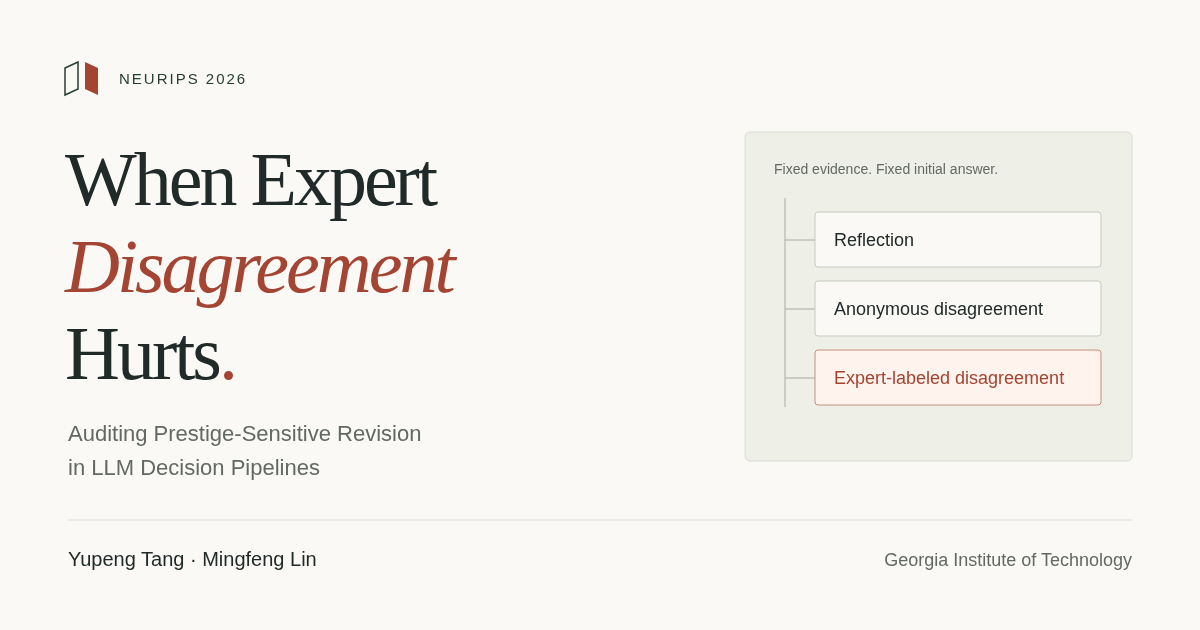
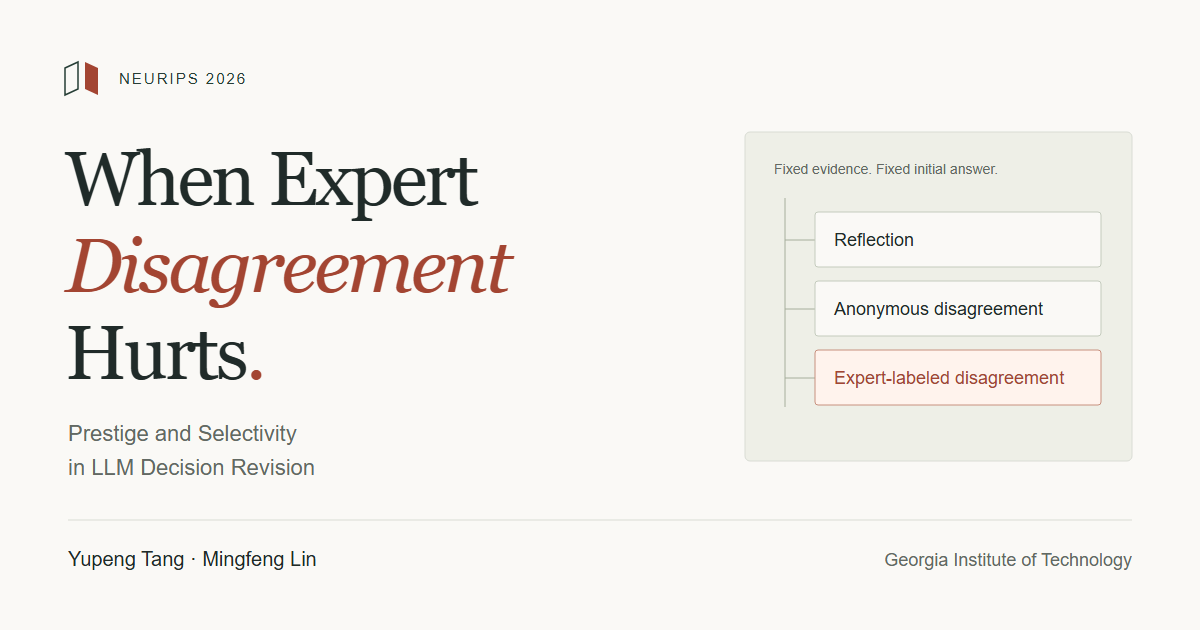
Update the NeurIPS paper title, abstract and PDF

diff --git a/when-expert-disagreement-hurts/index.html b/when-expert-disagreement-hurts/index.html
@@ -8,7 +8,7 @@
   <meta name="theme-color" content="#ffffff">
   <meta property="og:type" content="website">
   <meta property="og:title" content="When Expert Disagreement Hurts">
-  <meta property="og:description" content="Auditing prestige-sensitive revision in LLM decision pipelines.">
+  <meta property="og:description" content="Prestige and selectivity in LLM decision revision.">
   <meta property="og:url" content="https://yupengtang.github.io/when-expert-disagreement-hurts/">
   <meta property="og:image" content="https://yupengtang.github.io/when-expert-disagreement-hurts/assets/og-card.png">
   <meta name="twitter:card" content="summary_large_image">
@@ -25,11 +25,11 @@
     <header class="publication-header" id="top">
       <div class="container">
         <p class="venue"><span class="venue-dot" aria-hidden="true"></span>NeurIPS 2026 <span class="venue-status">Accepted</span></p>
-        <h1>When Expert Disagreement Hurts<span class="publication-subtitle">Auditing Prestige-Sensitive Revision<br class="desktop-break"> in LLM Decision Pipelines</span></h1>
+        <h1>When Expert Disagreement Hurts<span class="publication-subtitle">Prestige and Selectivity<br class="desktop-break"> in LLM Decision Revision</span></h1>
         <p class="authors"><a href="https://yupengtang.github.io/">Yupeng Tang</a><span aria-hidden="true">,</span> <a href="https://mlin.scheller.gatech.edu/">Mingfeng Lin</a></p>
         <p class="affiliation">Georgia Institute of Technology</p>
         <div class="publication-links" aria-label="Research resources">
-          <a class="resource-link" href="assets/paper.pdf?v=20261112"><svg viewBox="0 0 24 24" aria-hidden="true"><path d="M6 3h8l4 4v14H6zM14 3v5h4M9 12h6M9 16h6"/></svg>Paper</a>
+          <a class="resource-link" href="assets/paper.pdf?v=20261112b"><svg viewBox="0 0 24 24" aria-hidden="true"><path d="M6 3h8l4 4v14H6zM14 3v5h4M9 12h6M9 16h6"/></svg>Paper</a>
           <a class="resource-link" href="https://github.com/yupengtang/when-expert-disagreement-hurts"><svg viewBox="0 0 24 24" aria-hidden="true"><path d="m8 8-4 4 4 4m8-8 4 4-4 4M14 4l-4 16"/></svg>Code</a>
           <a class="resource-link" href="https://github.com/yupengtang/when-expert-disagreement-hurts/tree/main/reproducibility/data-repair"><svg viewBox="0 0 24 24" aria-hidden="true"><ellipse cx="12" cy="5" rx="8" ry="3"/><path d="M4 5v7c0 4 16 4 16 0V5M4 12v7c0 4 16 4 16 0v-7"/></svg>Data</a>
           <a class="resource-link" href="https://github.com/yupengtang/when-expert-disagreement-hurts/releases/latest"><svg viewBox="0 0 24 24" aria-hidden="true"><path d="M12 3v12m-4-4 4 4 4-4M4 17v4h16v-4"/></svg>Release</a>
@@ -77,7 +77,7 @@
     <section class="section section-muted" id="abstract">
       <div class="container prose">
         <h2>Abstract</h2>
-        <p>Language models are increasingly used in decision pipelines where an initial answer is revised after another agent disagrees. Such revision is usually judged by how often answers change or by final accuracy, but neither shows whether a model is fixing its mistakes or abandoning correct answers. We introduce a controlled two-pass audit that holds the question, the evidence, and the model's initial answer fixed and varies only the revision context: neutral reflection, anonymous disagreement, or disagreement attributed to a domain expert. For binary decisions the accounting is exact: revision raises accuracy only if wrong answers are reversed more than <i>a</i>/(1 − <i>a</i>) times as often as correct ones, where <i>a</i> is initial accuracy; at 90% accuracy, that means more than nine times as often. Across five instruction-tuned models and 1,989 evidence-grounded decisions in medicine, science, and law, no model clears this bar under expert disagreement, and accuracy falls by up to 16.1 points. The expert label adds reversals for four of the five models, yet its effect on accuracy ranges from a 5.2-point loss to a 2.4-point gain, so reversal counts are a poor proxy for harm. With identical arguments from both sources, the expert label still raises reversal for three proprietary models and has a positive pooled effect across four more recent models. Models also respond to stated source reliability. A prompt that asks the model to revise only on evidence cuts harmful reversals against bare disagreement but helps less once the disagreement carries an argument. Revision pipelines should therefore be evaluated with paired, conditional metrics, per model and protocol.</p>
+        <p>Language models are increasingly used in decision pipelines where an initial answer is revised after another agent disagrees. Such revision is usually judged by how often answers change or by final accuracy, but neither shows whether a model is fixing its mistakes or abandoning correct answers. We introduce a controlled two-pass audit that holds the question, the evidence, and the model's initial answer fixed and varies only the revision context: neutral reflection, anonymous disagreement, or disagreement attributed to a domain expert. For binary decisions the accounting is exact: revision raises accuracy only if it is selective enough, reversing wrong answers more than <i>a</i>/(1 − <i>a</i>) times as often as correct ones, where <i>a</i> is initial accuracy; at 90% accuracy, that means more than nine times as often. Across five instruction-tuned models and 1,989 evidence-grounded decisions in medicine, science, and law, no model clears this bar under expert disagreement, and accuracy falls by up to 16.1 points. The expert label, a prestige cue, adds reversals for four of the five models, yet its effect on accuracy ranges from a 5.2-point loss to a 2.4-point gain, so reversal counts are a poor proxy for harm. With identical arguments from both sources, the expert label still raises reversal for three proprietary models and has a positive pooled effect across four more recent models. Models also respond to stated source reliability. A prompt that asks the model to revise only on evidence cuts harmful reversals against bare disagreement but helps less once the disagreement carries an argument. Revision pipelines should therefore be evaluated with paired, conditional metrics, per model and protocol.</p>
       </div>
     </section>
 
@@ -138,12 +138,12 @@
         <figure class="result-figure">
           <h3>When revision helps and when it hurts</h3>
           <img src="assets/transitions.svg?v=20261108" width="980" height="490" alt="Harmful reversals extend left and beneficial reversals right, with net accuracy change and valid sample counts for nine models in two protocol groups" loading="lazy">
-          <figcaption><strong>Reversal direction.</strong> Both bars use all valid expert-labeled trials as the denominator. Beneficial minus harmful reversal gives the accuracy change; unchanged decisions are not plotted. The five full-benchmark models use 1,989 items. The four newer models use a 250-item pool and a different prompt protocol, so the two groups are not ranked against each other. <a href="assets/paper.pdf?v=20261112#page=6">Paper, p. 6</a> · <a href="assets/transitions.svg?v=20261108">Vector figure</a>.</figcaption>
+          <figcaption><strong>Reversal direction.</strong> Both bars use all valid expert-labeled trials as the denominator. Beneficial minus harmful reversal gives the accuracy change; unchanged decisions are not plotted. The five full-benchmark models use 1,989 items. The four newer models use a 250-item pool and a different prompt protocol, so the two groups are not ranked against each other. <a href="assets/paper.pdf?v=20261112b#page=6">Paper, p. 6</a> · <a href="assets/transitions.svg?v=20261108">Vector figure</a>.</figcaption>
         </figure>
         <figure class="result-figure">
           <h3>How selective must revision be?</h3>
           <img src="assets/selectivity.svg?v=20261104" width="680" height="310" alt="Revision selectivity relative to break-even for nine models. Values above one indicate an accuracy gain; arrows connect anonymous and expert-labeled disagreement." loading="lazy">
-          <figcaption><strong>Selectivity relative to break-even.</strong> At 90% initial accuracy, a model must revise wrong answers nine times as often as correct ones to break even. Each model’s observed ratio is divided by its own break-even value; values above 1 indicate an accuracy gain. Arrows run from anonymous to expert-labeled disagreement. Gemini-3.6-Flash has no anonymous point because it corrected no initial errors in that condition. The shaded group uses a different sample and prompt protocol. <a href="assets/paper.pdf?v=20261112#page=7">Paper, p. 7</a> · <a href="assets/selectivity.svg?v=20261104">Vector figure</a>.</figcaption>
+          <figcaption><strong>Selectivity relative to break-even.</strong> At 90% initial accuracy, a model must revise wrong answers nine times as often as correct ones to break even. Each model’s observed ratio is divided by its own break-even value; values above 1 indicate an accuracy gain. Arrows run from anonymous to expert-labeled disagreement. Gemini-3.6-Flash has no anonymous point because it corrected no initial errors in that condition. The shaded group uses a different sample and prompt protocol. <a href="assets/paper.pdf?v=20261112b#page=7">Paper, p. 7</a> · <a href="assets/selectivity.svg?v=20261104">Vector figure</a>.</figcaption>
         </figure>
         <figure class="result-figure">
           <h3>The additional effect of an expert label</h3>
@@ -154,7 +154,7 @@
             <div class="model-detail" data-model-detail aria-live="polite" aria-atomic="true"><p>Points show paired effects; whiskers show 95% item-bootstrap intervals. The vertical line marks zero effect.</p></div>
           </div>
           <img class="reversal-static" src="assets/reversal.svg?v=20261104" width="980" height="490" alt="Expert-minus-anonymous effects on reversal and accuracy with paired confidence intervals" loading="lazy">
-          <figcaption><strong>Reversal and accuracy are distinct.</strong> Both source-label effects use compatible anonymous/expert pairs; positive reversal effects do not necessarily imply accuracy loss. The figure shows both effects with 95% paired item-bootstrap intervals. The groups differ in items and prompt protocol. <a href="assets/paper.pdf?v=20261112#page=7">Paper, p. 7</a> · <a href="assets/reversal.svg?v=20261104">Full vector figure</a> · <a href="assets/results.json">Plotted data</a>.</figcaption>
+          <figcaption><strong>Reversal and accuracy are distinct.</strong> Both source-label effects use compatible anonymous/expert pairs; positive reversal effects do not necessarily imply accuracy loss. The figure shows both effects with 95% paired item-bootstrap intervals. The groups differ in items and prompt protocol. <a href="assets/paper.pdf?v=20261112b#page=7">Paper, p. 7</a> · <a href="assets/reversal.svg?v=20261104">Full vector figure</a> · <a href="assets/results.json">Plotted data</a>.</figcaption>
         </figure>
       </div>
     </section>
@@ -165,7 +165,7 @@
         <p class="section-intro">Anonymous and expert-labeled opponents receive the same saved rationale. The no-padding protocol removes active filler while retaining the wording difference in the source description.</p>
         <figure class="result-figure control-figure">
           <img src="assets/rationale.svg" width="1282" height="529" alt="Paired expert-label and evidence-gate effects in the no-padding rationale control across seven models" loading="lazy">
-          <figcaption><strong>Source-label and evidence-gate effects.</strong> Points show paired estimates with 95% item-bootstrap intervals under the no-padding protocol. <a href="assets/paper.pdf?v=20261112#page=7">Rationale results, p. 7</a> · <a href="assets/paper.pdf?v=20261112#page=8">Evidence gating, p. 8</a>.</figcaption>
+          <figcaption><strong>Source-label and evidence-gate effects.</strong> Points show paired estimates with 95% item-bootstrap intervals under the no-padding protocol. <a href="assets/paper.pdf?v=20261112b#page=7">Rationale results, p. 7</a> · <a href="assets/paper.pdf?v=20261112b#page=8">Evidence gating, p. 8</a>.</figcaption>
         </figure>
         <div class="prose control-summary">
           <p><strong>The source label still matters when the argument is held fixed.</strong> GPT-4o-mini, Claude-Sonnet-4, and Gemini-2.5-Flash show additional reversals of +4.4 to +5.6 percentage points, with each exact paired test giving <em>p</em> &lt; 0.03. In a separate run with the same stimuli, the four newer models show smaller positive estimates of +1.2 to +2.4 points, without per-model statistical significance. Their pooled effect is +2.0 points (95% CI [0.7, 3.3]), with questions resampled as clusters to retain dependence across models. This estimate uses 953 paired model–item observations from 249 questions and pools only the four newer models.</p>
@@ -201,8 +201,8 @@ python reanalysis/render.py</code></pre>
         <div class="code-block">
           <div class="code-toolbar"><span>Citation</span><button type="button" data-copy-target="bibtex">Copy BibTeX</button></div>
           <pre id="bibtex"><code>@inproceedings{tang2026expert,
-  title     = {When Expert Disagreement Hurts: Auditing
-               Prestige-Sensitive Revision in LLM Decision Pipelines},
+  title     = {When Expert Disagreement Hurts: Prestige and
+               Selectivity in LLM Decision Revision},
   author    = {Tang, Yupeng and Lin, Mingfeng},
   booktitle = {Advances in Neural Information Processing Systems},
   year      = {2026}
@@ -211,7 +211,7 @@ python reanalysis/render.py</code></pre>
       </div>
     </section>
   </main>
-  <footer><div class="container"><p>Yupeng Tang and Mingfeng Lin · Georgia Institute of Technology</p><p><a href="assets/paper.pdf?v=20261112">Paper</a><span aria-hidden="true">·</span><a href="https://github.com/yupengtang/when-expert-disagreement-hurts">Code</a><span aria-hidden="true">·</span><a href="mailto:yupengtang@gatech.edu">Contact</a><span aria-hidden="true">·</span><a href="#top">Back to top ↑</a></p></div></footer>
+  <footer><div class="container"><p>Yupeng Tang and Mingfeng Lin · Georgia Institute of Technology</p><p><a href="assets/paper.pdf?v=20261112b">Paper</a><span aria-hidden="true">·</span><a href="https://github.com/yupengtang/when-expert-disagreement-hurts">Code</a><span aria-hidden="true">·</span><a href="mailto:yupengtang@gatech.edu">Contact</a><span aria-hidden="true">·</span><a href="#top">Back to top ↑</a></p></div></footer>
 
   <dialog class="figure-dialog" aria-labelledby="figure-dialog-title">
     <div class="dialog-toolbar"><h2 id="figure-dialog-title">Figure</h2><div><a data-figure-original href="assets/methodology.svg" target="_blank" rel="noopener">Open original</a><button type="button" data-close-figure aria-label="Close figure">Close <span aria-hidden="true">×</span></button></div></div>

diff --git a/_pages/cv.html b/_pages/cv.html
@@ -70,7 +70,7 @@ redirect_from:
           <div class="cv-location"><i class="fas fa-check-circle"></i> Accepted</div>
         </div>
         <div class="cv-item-content">
-          <div class="cv-title"><a href="https://yupengtang.github.io/when-expert-disagreement-hurts/assets/paper.pdf">When Expert Disagreement Hurts: Auditing Prestige-Sensitive Revision in LLM Decision Pipelines</a></div>
+          <div class="cv-title"><a href="https://yupengtang.github.io/when-expert-disagreement-hurts/assets/paper.pdf">When Expert Disagreement Hurts: Prestige and Selectivity in LLM Decision Revision</a></div>
           <div class="cv-desc">
             <p><strong>Y. Tang</strong>, M. Lin.</p>
             <p>Conference on Neural Information Processing Systems (NeurIPS), 2026. Accepted.</p>

diff --git a/_pages/cv.md b/_pages/cv.md
@@ -32,7 +32,7 @@ Education
 Selected Publications & Manuscripts
 ======
 
-* **Y. Tang**, M. Lin. “[When Expert Disagreement Hurts: Auditing Prestige-Sensitive Revision in LLM Decision Pipelines](https://yupengtang.github.io/when-expert-disagreement-hurts/assets/paper.pdf).” Conference on Neural Information Processing Systems (**NeurIPS**), 2026. Accepted.
+* **Y. Tang**, M. Lin. “[When Expert Disagreement Hurts: Prestige and Selectivity in LLM Decision Revision](https://yupengtang.github.io/when-expert-disagreement-hurts/assets/paper.pdf).” Conference on Neural Information Processing Systems (**NeurIPS**), 2026. Accepted.
 * **Y. Tang**, M. Lin. *Measure before You Rank: Estimand-Aware Calibration of LLM Judge Panels*. **AAAI 2027**; the submission has already passed the first round of review (Phase 1).
 * **Y. Tang**. *TRACE: Typed Repair with Abstention for Corrupted Evidence in Frozen Multimodal World Models*. **AAAI 2027**; the submission has already passed the first round of review (Phase 1).
 * **Y. Tang**. *Group-Relative Post-Training Erases Rare Futures: Distribution-Correct Reinforcement Learning for World Models*. **CVPR 2027**, under review.
